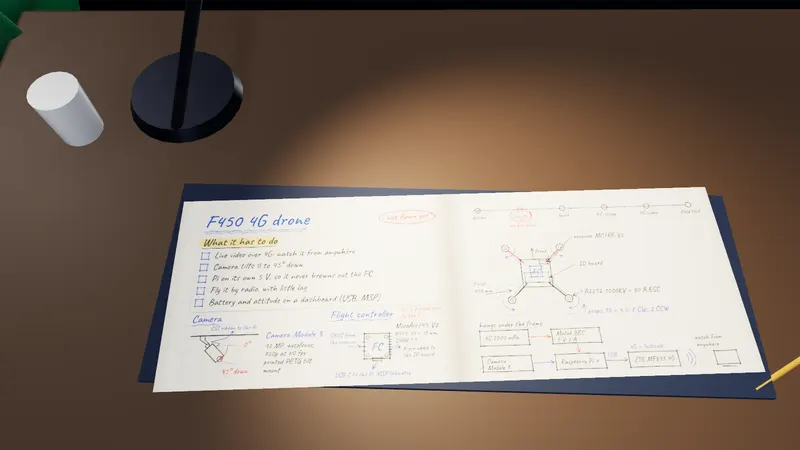
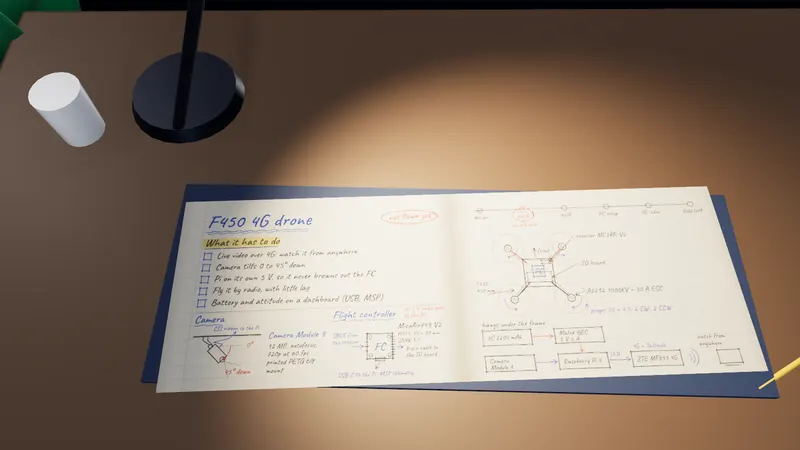
Sketchbook: dim the page so the pen is readable
The lamp's spotlight and the room's light put the page at nearly full white
(median brightness 231 of 255), and the extra glow added on top of it pushed
parts of the page to clipping, which left the thin pen strokes almost nothing to
show against. The glow is gone and the paper is dimmed (to about 193 in the dark
theme, 214 in the light one), so the ink keeps its contrast. The title and sketch
pictures for read mode are redrawn (the title one also loses the old floor
streaks).

diff --git a/src/lib/studio/room.ts b/src/lib/studio/room.ts
@@ -222,11 +222,9 @@ export async function buildRoom(ctx: StageContext, content: RoomContent): Promis
 	let sketchShown = 0;
 	let sketchAt = -1;
 	const book = new Mesh(new PlaneGeometry(0.84, 0.3), hardware({ color: 0xffffff, map: sketch.texture, roughness: 0.9 }, "printed"));
-	// The page carries a little light of its own, so the handwriting reads in the dark theme as well as under the lamp.
+	// The lamp and the room's light fall on the page, and white paper under that much light is nearly white itself, which
+	// leaves the pen little to show against: the page is dimmed (see applyPalette) so the ink keeps its contrast.
 	const bookMaterial = book.material as MeshStandardMaterial;
-	bookMaterial.emissive.set(0xffffff);
-	bookMaterial.emissiveMap = sketch.texture;
-	bookMaterial.emissiveIntensity = 0.3;
 	book.rotation.x = -Math.PI / 2;
 	book.rotation.z = 0.03;
 	book.position.set(deskX - 0.32, deskTop + 0.011, deskZ + 0.14);
@@ -347,10 +345,7 @@ export async function buildRoom(ctx: StageContext, content: RoomContent): Promis
 			ceilingMat.color.set(dark ? 0x0a1228 : 0xeef3fb);
 			(floorMat as MeshStandardMaterial).color.set(dark ? 0x0a1022 : 0xbfc9dc);
 			trimMat.color.set(dark ? 0x1b2a52 : 0xb8c5dd);
-			// The notebook page: it glows a little of its own in the dark room, and in the daylight one it is toned down (the
-			// bright rig would wash the pen out against a white page).
-			bookMaterial.color.setScalar(dark ? 1 : 0.78);
-			bookMaterial.emissiveIntensity = dark ? 0.3 : 0;
+			bookMaterial.color.setScalar(dark ? 0.46 : 0.45);
 			stations.applyPalette(p);
 			ambience.applyPalette(p);
 			(logo.material as MeshBasicMaterial).map = dark ? logoLight : logoDark;
